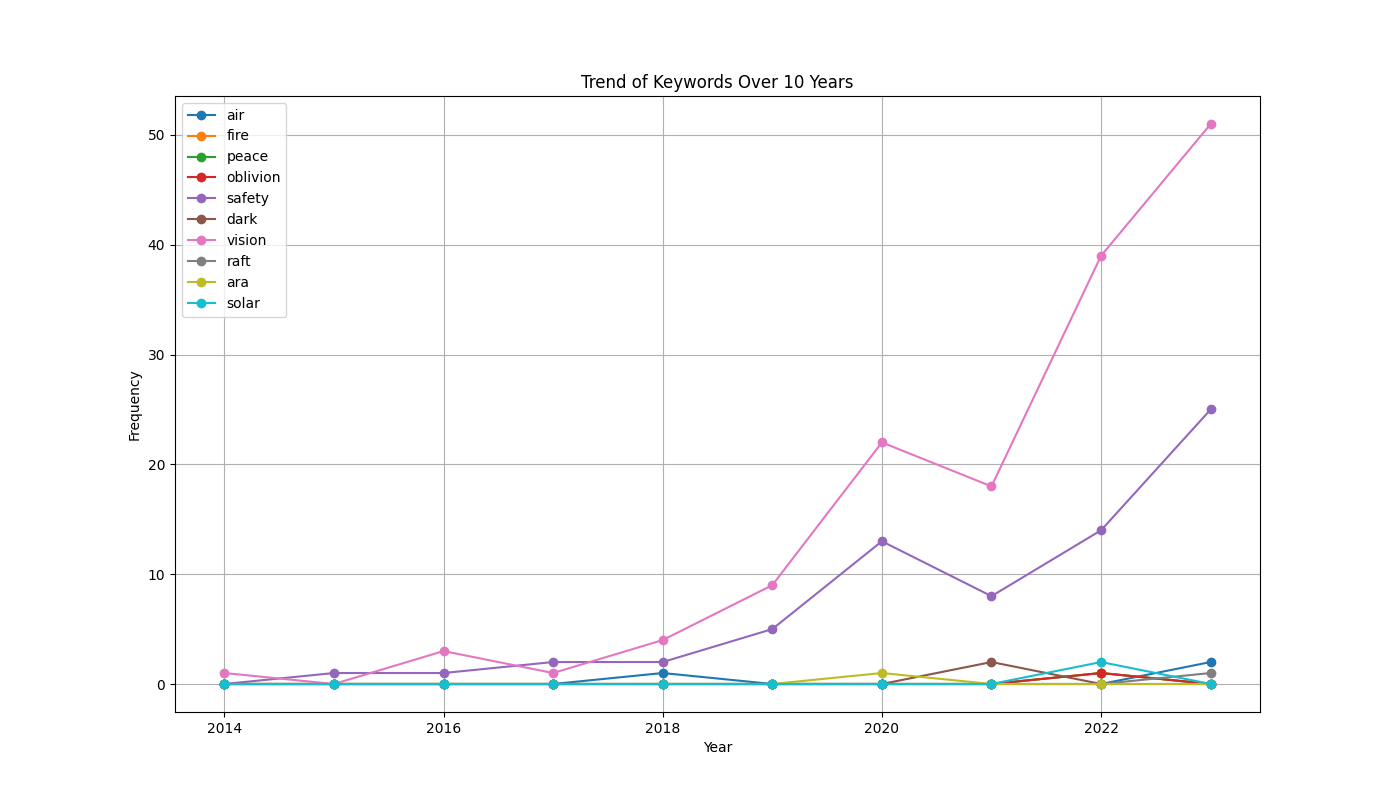
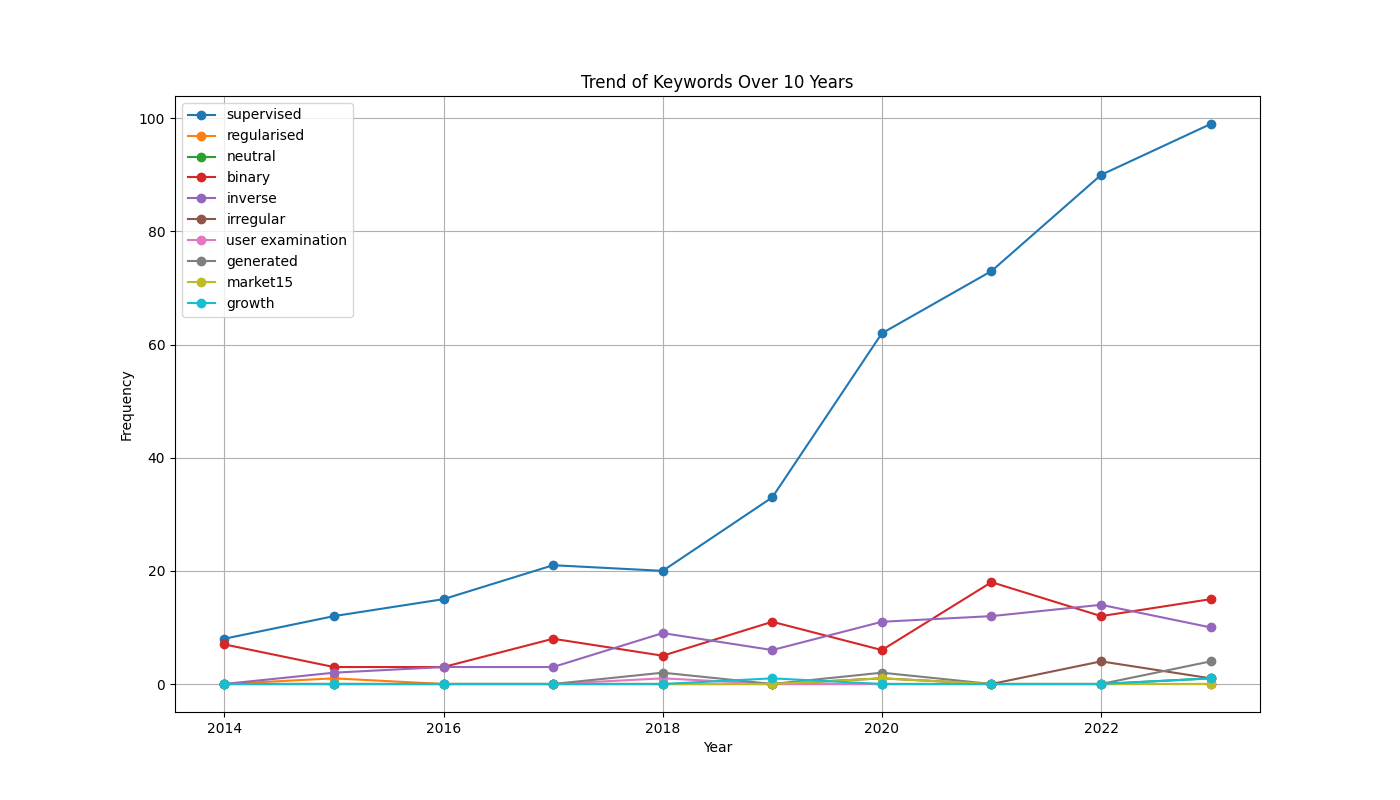
Feature Statistical Paper Full ClientVue3js

diff --git a/vue3client/src/components/user/pbl7/PaperStatistical.vue b/vue3client/src/components/user/pbl7/PaperStatistical.vue
@@ -1,41 +1,248 @@
 <template>
     <div id="main">
         <div>
-            <h3 class="title-channel"><i class="fa-solid fa-square-poll-vertical"></i> Statistics of scientific articles </h3>
+            <h3 class="title-channel"><i class="fa-solid fa-square-poll-vertical"></i> Statistics of scientific articles
+            </h3>
         </div>
-        <div class="mt-2">
-
+        <div class="mt-2 row">
+            <div class="col-8">
+                <div class="form-group mb-0 pb-">
+                    <label class="font-weight-bold" for="exampleFormControlSelect1"><i class="fa-solid fa-arrow-trend-up"></i> Trend of top 10
+                        keywords Over 10 Years</label>
+                    <select v-model="yearTop10Trend" @change="getImageTop10Trend" class="form-control col-10"
+                        id="exampleFormControlSelect1">
+                        <option v-for="year in years" :key="year">{{ year }}</option>
+                    </select>
+                </div>
+                <flower-spinner v-if="!urlTop10Trend" class="loading-component"
+                                        :animation-duration="2000" :size="50" color="#06C755" />
+                <img v-if="urlTop10Trend" :src="computedUrlTop10Trend" alt="Trend Image">
+            </div>
+        </div>
+        <div class="mt-4 row">
+            <div class="col-4">
+                <label class="font-weight-bold" for="exampleFormControlSelect1"><i class="fa-solid fa-chart-column"></i> Keyword table and related keyword list</label>
+                <select v-model="big_search.year" @change="getKeyWords" class="form-control mb-1" 
+                        id="exampleFormControlSelect1">
+                        <option v-for="year in years" :key="year">{{ year }}</option>
+                    </select>
+                <div v-if="isLoading">
+                    <TableLoading :cols="6" :rows="9"></TableLoading>
+                </div>
+                <div v-if="!isLoading" class="table-data">
+                    <table class="table table-bordered">
+                        <thead>
+                            <tr>
+                                <th scope="col">#</th>
+                                <th scope="col"><i class="fa-solid fa-key"></i> Key Word </th>
+                                <th scope="col"><i class="fa-solid fa-chart-simple"></i> Frequency</th>
+                            </tr>
+                        </thead>
+                        <tbody>
+                            <tr v-for="(keyword, index) in keywords" :key="index">
+                                <th class="table-cell" scope="row">#{{ (big_search.page - 1) * big_search.perPage + index + 1 }}</th>
+                                <td @click="getImageKeywordRelated(keyword.Word)" class="name-keyword table-cell text-center"><span>{{ keyword.Word }}</span></td>
+                                <td class="table-cell text-center">{{ keyword.Frequency }}</td>
+                            </tr>
+                        </tbody>
+                    </table>
+                </div>
+                <div id="divpaginate" class="mt-2">
+                    <paginate v-if="paginateVisible" :page-count="last_page" :page-range="3" :margin-pages="2"
+                        :click-handler="clickCallback" :initial-page="big_search.page" :prev-text="'Prev'"
+                        :next-text="'Next'" :container-class="'pagination'" :page-class="'page-item'">
+                    </paginate>
+                </div>
+            </div>
+            <div class="col-8" >
+                <p class="text-center font-weight-bold" for="exampleFormControlSelect1"><i class="fa-solid fa-circle"></i> Visualize wordcloud for keywords</p>
+                <div class="row img-wordcloud">
+                    <flower-spinner v-if="!urlWordcloud" class="loading-component"
+                                        :animation-duration="2000" :size="50" color="#06C755" />
+                    <img v-if="urlWordcloud" :src="computedUrlWordcloud" alt="Trend Image">
+                </div>
+                <p v-if="urlKeyWordRelated" class="text-center p-label-keyword font-weight-bold" for="exampleFormControlSelect1"><i class="fa-solid fa-chart-line"></i> Line graph for related keywords</p>
+                <div class="row img-keyword">
+                    <flower-spinner v-if="!urlKeyWordRelated" class="loading-component"
+                                    :animation-duration="2000" :size="50" color="#06C755" />
+                    <img v-if="urlKeyWordRelated" :src="computedUrlKeyWordRelated" alt="Trend Image">
+                </div>
+            </div>
         </div>
     </div>
 </template>
 
 <script>
-// import ModelRequest from '@/restful/ModelRequest';
+import ModelRequest from '@/restful/ModelRequest';
+import useEventBus from '@/composables/useEventBus';
 import config from '@/config';
-import useEventBus from '@/composables/useEventBus'
+import Paginate from 'vuejs-paginate-next';
+import TableLoading from '@/components/common/TableLoading'
+import { FlowerSpinner } from 'epic-spinners';
+
 const { emitEvent } = useEventBus();
 
 export default {
     name: "PaperSearch",
+    components: {
+        paginate: Paginate,
+        FlowerSpinner,
+        TableLoading,
+    },
     data() {
         return {
             config: config,
+            years: [],
+            // 
+            yearTop10Trend: 2023,
+            urlTop10Trend: '',
+            // 
+            total: 0,
+            last_page: 1,
+            paginateVisible: true,
+            big_search: {
+                page: 1,
+                year: 2023,
+                perPage: 20,
+            },
+            query: '',
+            keywords: [],
+            urlWordcloud: '', 
+            urlKeyWordRelated: '', 
+            isLoading: false,
         }
+    },
+    created() {
+        const startYear = 1987;
+        const endYear = 2023;
+        for (let year = startYear; year <= endYear; year++) this.years.unshift(year);
+        this.getImageTop10Trend(); // Load the initial trend
     },
     mounted() {
         emitEvent('eventTitleHeader', 'Statistics of scientific articles');
         document.title = "Statistics of scientific articles | PBL7";
+        const queryString = window.location.search;
+        const searchParams = new URLSearchParams(queryString);
+        this.big_search = {
+            perPage: parseInt(searchParams.get('paginate')) || 20,
+            page: searchParams.get('page') || 1,
+            year: searchParams.get('year') || 2023,
+        }
+        this.getKeyWords();
     },
-    beforeUnmount() {
-
+    computed: {
+        computedUrlTop10Trend() {
+            // Thêm một chuỗi truy vấn ngẫu nhiên để đảm bảo ảnh được tải lại
+            return this.urlTop10Trend + '?t=' + new Date().getTime();
+        },
+        computedUrlKeyWordRelated() {
+            return this.urlKeyWordRelated + '?t=' + new Date().getTime();
+        },
+        computedUrlWordcloud() {
+            return this.urlWordcloud + '?t=' + new Date().getTime();
+        },
     },
     methods: {
-
+        async getImageTop10Trend() {
+            try {
+                this.urlTop10Trend = '';
+                const { url } = await ModelRequest.get('trend_10_year?year=' + this.yearTop10Trend, false);
+                // bằng cách này v-if hoặc động và xóa img khỏi DOM rồi tạo lại để load ra ảnh mới 
+                this.$nextTick(() => {
+                    this.urlTop10Trend = url;
+                });
+                emitEvent('eventSuccess', 'Get Trend of top 10 keywords Over 10 Years success!');
+            } catch {
+                emitEvent('eventError', 'Get Trend of top 10 keywords Over 10 Years fail !');
+            }
+        },
+        reRenderPaginate: function () {
+            if (this.big_search.page > this.last_page) this.big_search.page = this.last_page;
+            this.paginateVisible = false;
+            this.$nextTick(() => { this.paginateVisible = true; });
+        },
+        getKeyWords: async function () {
+            this.isLoading = true;
+            this.query = '?year=' + this.big_search.year + '&page=' + this.big_search.page;
+            window.history.pushState({}, null, this.query);
+            try {
+                this.urlWordcloud = '';
+                const { results, count } = await ModelRequest.get('trend_year' + this.query, false)
+                console.log(results.table);
+                this.keywords = results.table;
+                this.urlWordcloud = results.url;
+                this.total = count;
+                this.last_page = Math.ceil(count / this.big_search.perPage); // trang cuối 
+                this.isLoading = false;
+                emitEvent('eventSuccess', 'Get keyword table success !');
+            }
+            catch(error) {
+                console.log(error);
+                emitEvent('eventError', 'Get keyword table fail !');
+            }
+            this.reRenderPaginate();
+        },
+        async getImageKeywordRelated(keyword) {
+            try {
+                this.urlKeyWordRelated = '';
+                const { url } = await ModelRequest.get('trend_10_keywords?year=' + this.big_search.year+'&keyword=' + keyword, false);
+                this.$nextTick(() => {
+                    this.urlKeyWordRelated = url;
+                });
+                emitEvent('eventSuccess', 'Get KeyWord Related success !');
+            } catch {
+                emitEvent('eventError', 'Get KeyWord Related fail !');
+            }
+        },
+        clickCallback: function (pageNum) {
+            this.big_search.page = pageNum;
+        },
+    },
+    watch: {
+        big_search: {
+            handler: function () {
+                this.getKeyWords();
+            },
+            deep: true
+        },
     }
 }
 </script>
 
 <style scoped>
+.loading-component {
+    margin-top: 20px !important;
+}
+
+.img-wordcloud {
+    overflow: hidden;
+}
+
+.img-keyword {
+    overflow: hidden;
+}
+
+.img-keyword img {
+    scale: 1.1;
+    margin-top: -40px;
+    margin-left: -20px;
+}
+
+.img-wordcloud img {
+    scale: 1.2;
+    margin-top: -130px;
+    margin-left: -20px;
+}
+
+.name-keyword span {
+    color: #007BFF;
+}
+.name-keyword:hover {
+    color: #007BFF;
+    cursor: pointer;
+    text-decoration: underline;
+}
+
 .title-channel {
     font-size: 19px;
     color: var(--user-color);
